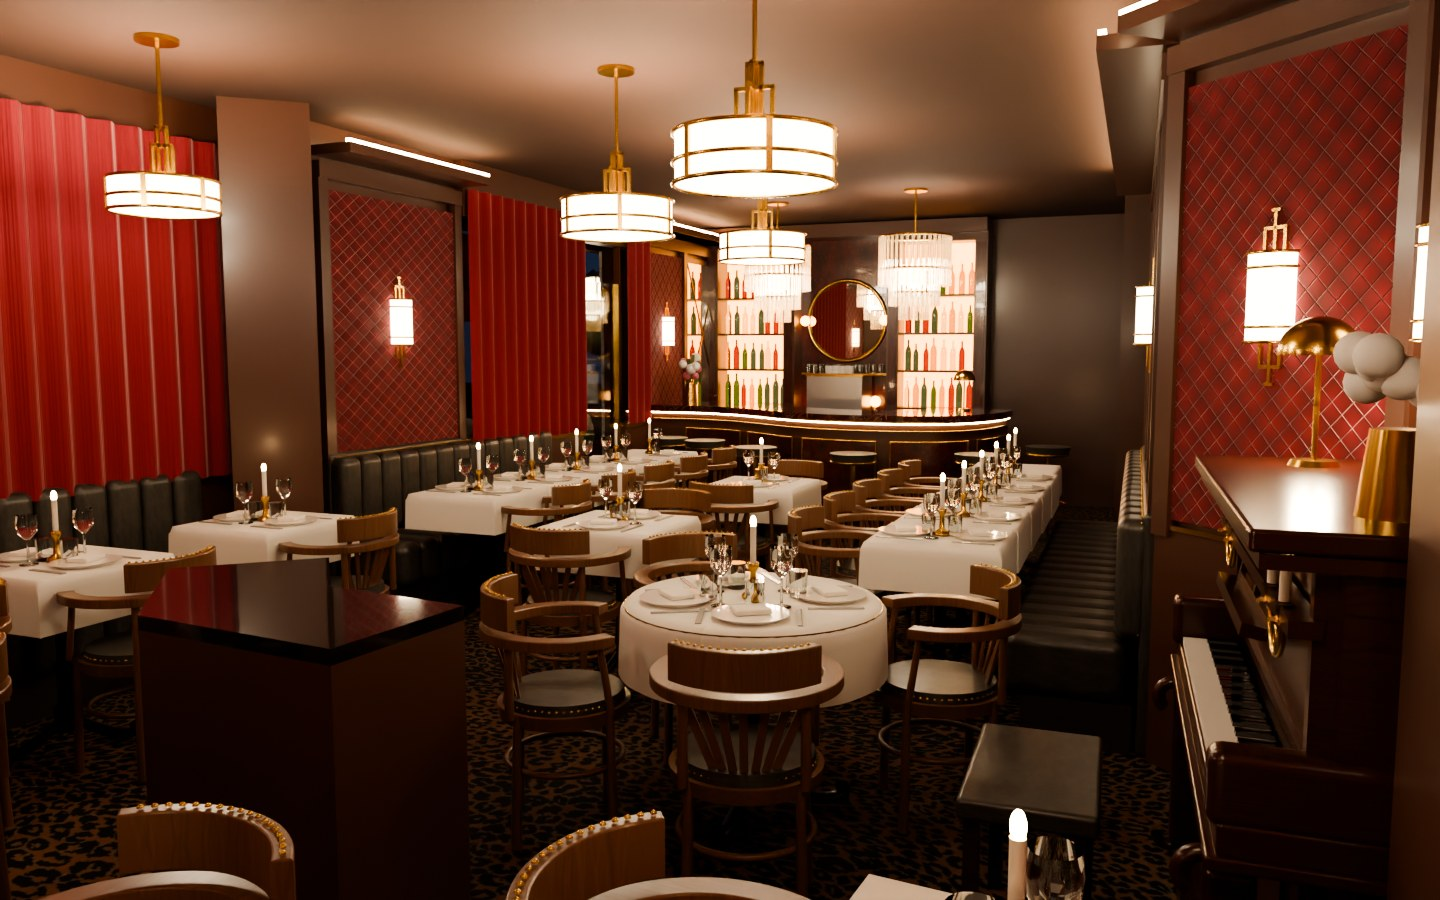
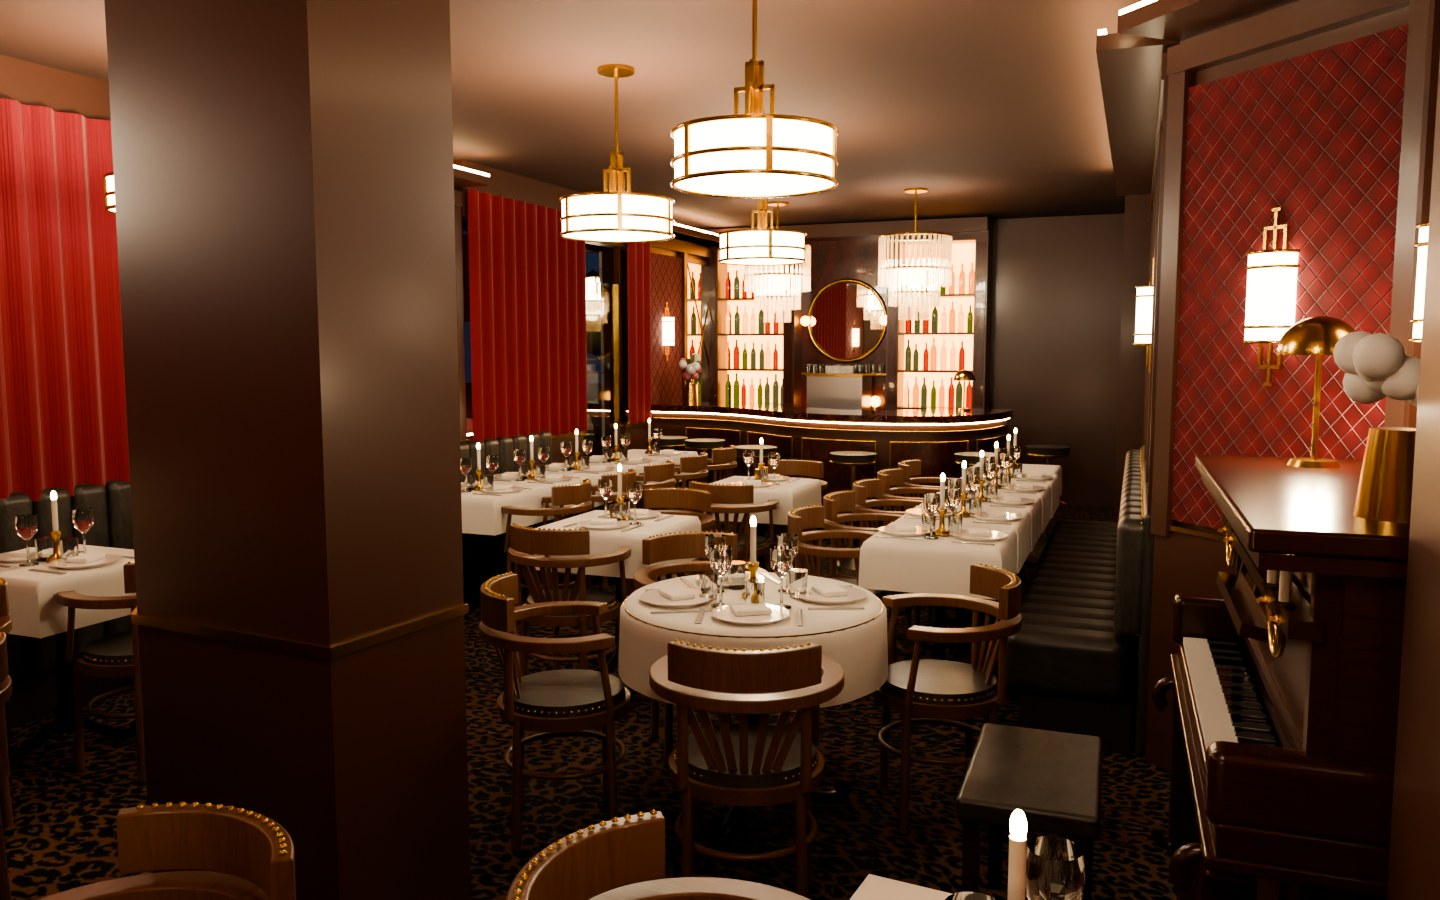
Rendu coin piano (poteau, LED banquettes) et vue entrée 1 décalée du poteau
Claude-Session: https://claude.ai/code/session_01LV61XxHaDAZjA4r6wzepSQ

diff --git a/index.html b/index.html
@@ -703,7 +703,7 @@ function setLabels(on){document.getElementById('labels').classList.toggle('hide-
 const VIEWS=[
  {id:'ensemble',name:'Vue d\'ensemble',pos:[19.5,9.5,13.2],tgt:[10.4,0,7.4],cut:true},
  {id:'plan',name:'Plan',pos:[10.45,19,7.4],tgt:[10.2,0,7.4],cut:true},
- {id:'entree1',name:'Depuis l\'entrée 1',pos:[14.95,1.62,8.15],tgt:[8.0,1.1,7.6]},
+ {id:'entree1',name:'Depuis l\'entrée 1',pos:[13.35,1.62,7.9],tgt:[7.6,1.05,7.75]},
  {id:'bar',name:'Le bar',pos:[9.7,1.7,8.3],tgt:[5.2,1.3,8.4]},
  {id:'barman',name:'Derrière le bar',pos:[5.55,1.65,8.9],tgt:[12.5,1.0,7.6]},
  {id:'entree2',name:'Depuis l\'entrée 2',pos:[7.6,1.6,9.75],tgt:[13.5,1.1,6.3]},

diff --git a/source/template.html b/source/template.html
@@ -671,7 +671,7 @@ function setLabels(on){document.getElementById('labels').classList.toggle('hide-
 const VIEWS=[
  {id:'ensemble',name:'Vue d\'ensemble',pos:[19.5,9.5,13.2],tgt:[10.4,0,7.4],cut:true},
  {id:'plan',name:'Plan',pos:[10.45,19,7.4],tgt:[10.2,0,7.4],cut:true},
- {id:'entree1',name:'Depuis l\'entrée 1',pos:[14.95,1.62,8.15],tgt:[8.0,1.1,7.6]},
+ {id:'entree1',name:'Depuis l\'entrée 1',pos:[13.35,1.62,7.9],tgt:[7.6,1.05,7.75]},
  {id:'bar',name:'Le bar',pos:[9.7,1.7,8.3],tgt:[5.2,1.3,8.4]},
  {id:'barman',name:'Derrière le bar',pos:[5.55,1.65,8.9],tgt:[12.5,1.0,7.6]},
  {id:'entree2',name:'Depuis l\'entrée 2',pos:[7.6,1.6,9.75],tgt:[13.5,1.1,6.3]},

diff --git a/source/render_qg.py b/source/render_qg.py
@@ -7,7 +7,7 @@ glb, view, mode, out, W, H, SPP = sys.argv[1], sys.argv[2], sys.argv[3], sys.arg
 night = mode == 'soir'
 CX, CZ = 10.2, 7.4
 VIEWS = {
-    'entree1': ([14.95, 1.62, 8.15], [8.0, 1.1, 7.6], 52),
+    'entree1': ([13.35, 1.62, 7.9], [7.6, 1.05, 7.75], 56),
     'fond': ([16.2, 1.65, 5.35], [9.0, 0.9, 8.3], 52),
     'bar': ([9.7, 1.7, 8.3], [5.2, 1.3, 8.4], 52),
     'entree2': ([7.6, 1.6, 9.75], [13.5, 1.1, 6.3], 54),
